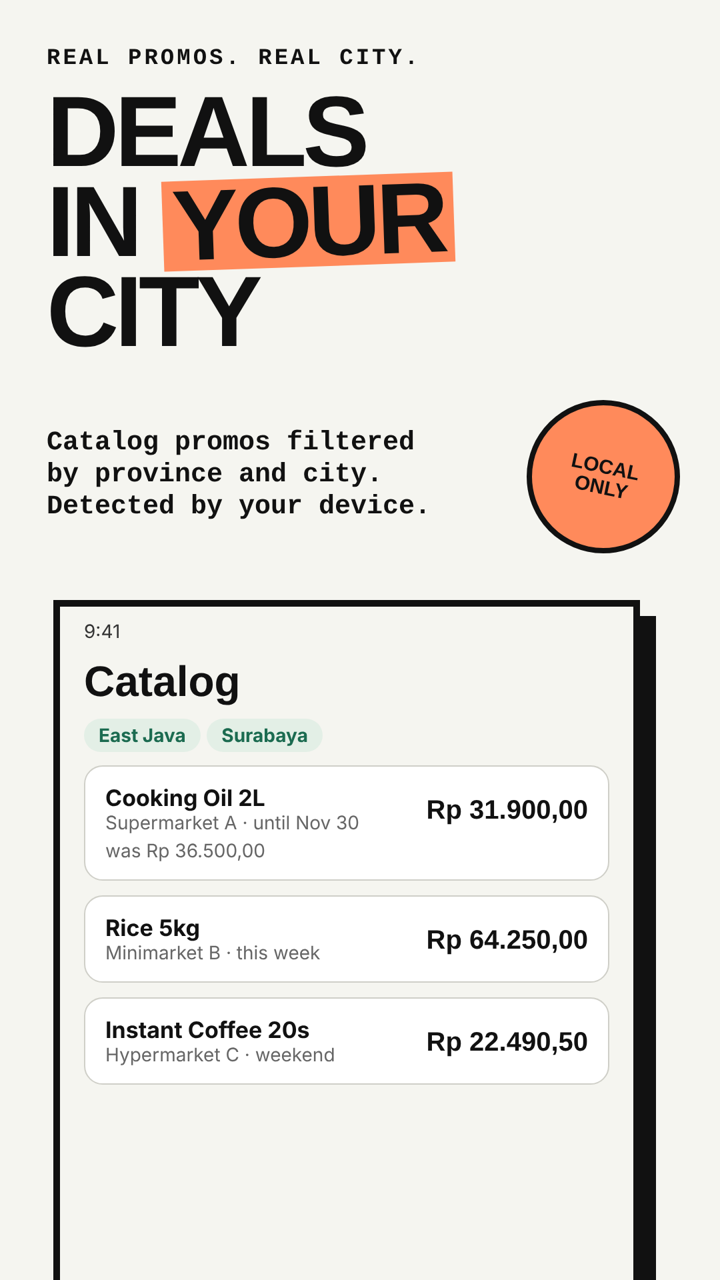
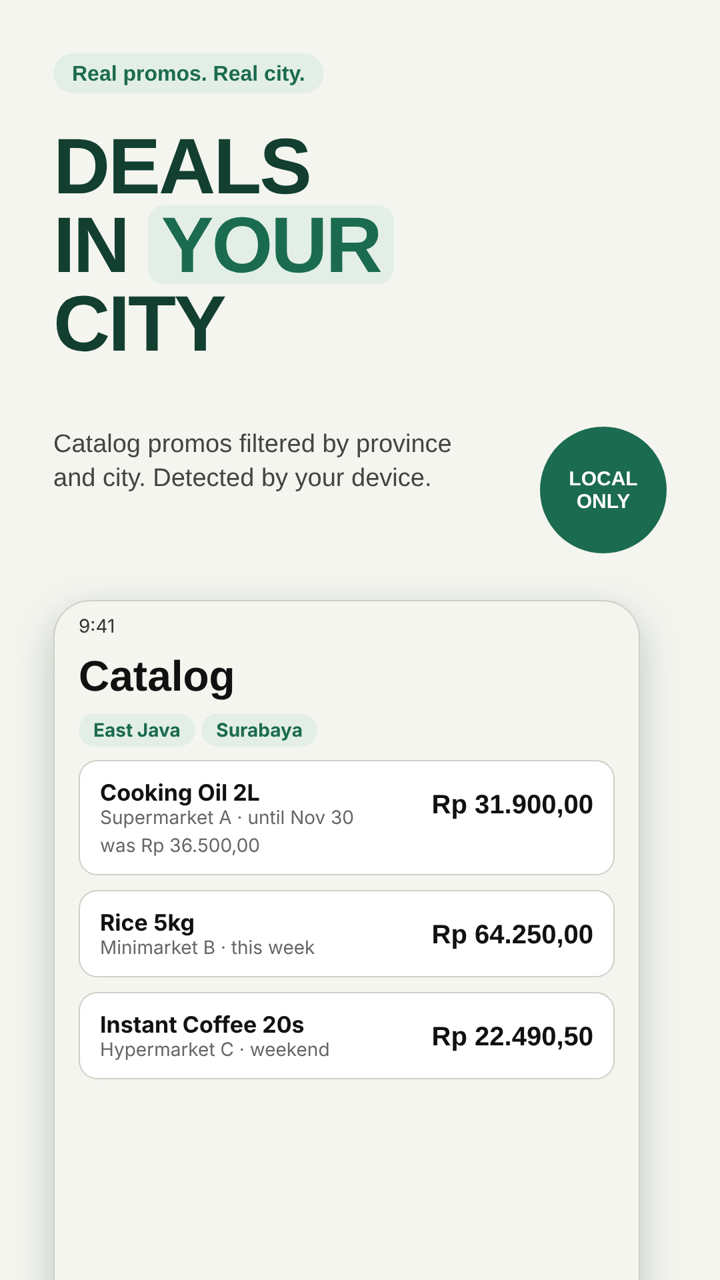
Pretio website: update screenshots to app-style theme
Claude-Session: https://claude.ai/code/session_01BieiZ4WpyErDA4vMKLr6ge

diff --git a/pretio/index.html b/pretio/index.html
@@ -7,7 +7,7 @@
   <meta name="description" content="Pretio: Price Tracker AI helps you scan barcodes or product photos, save prices, compare by unit or category, review price history, browse catalogs, and organize shopping lists." />
   <meta name="theme-color" content="#f6fbf8" />
   <link rel="icon" href="../images/pretio_icon.png" />
-  <link rel="stylesheet" href="pretio.css?v=20261120-146b" />
+  <link rel="stylesheet" href="pretio.css?v=20261120-146c" />
 </head>
 <body>
   <header class="app-header">
